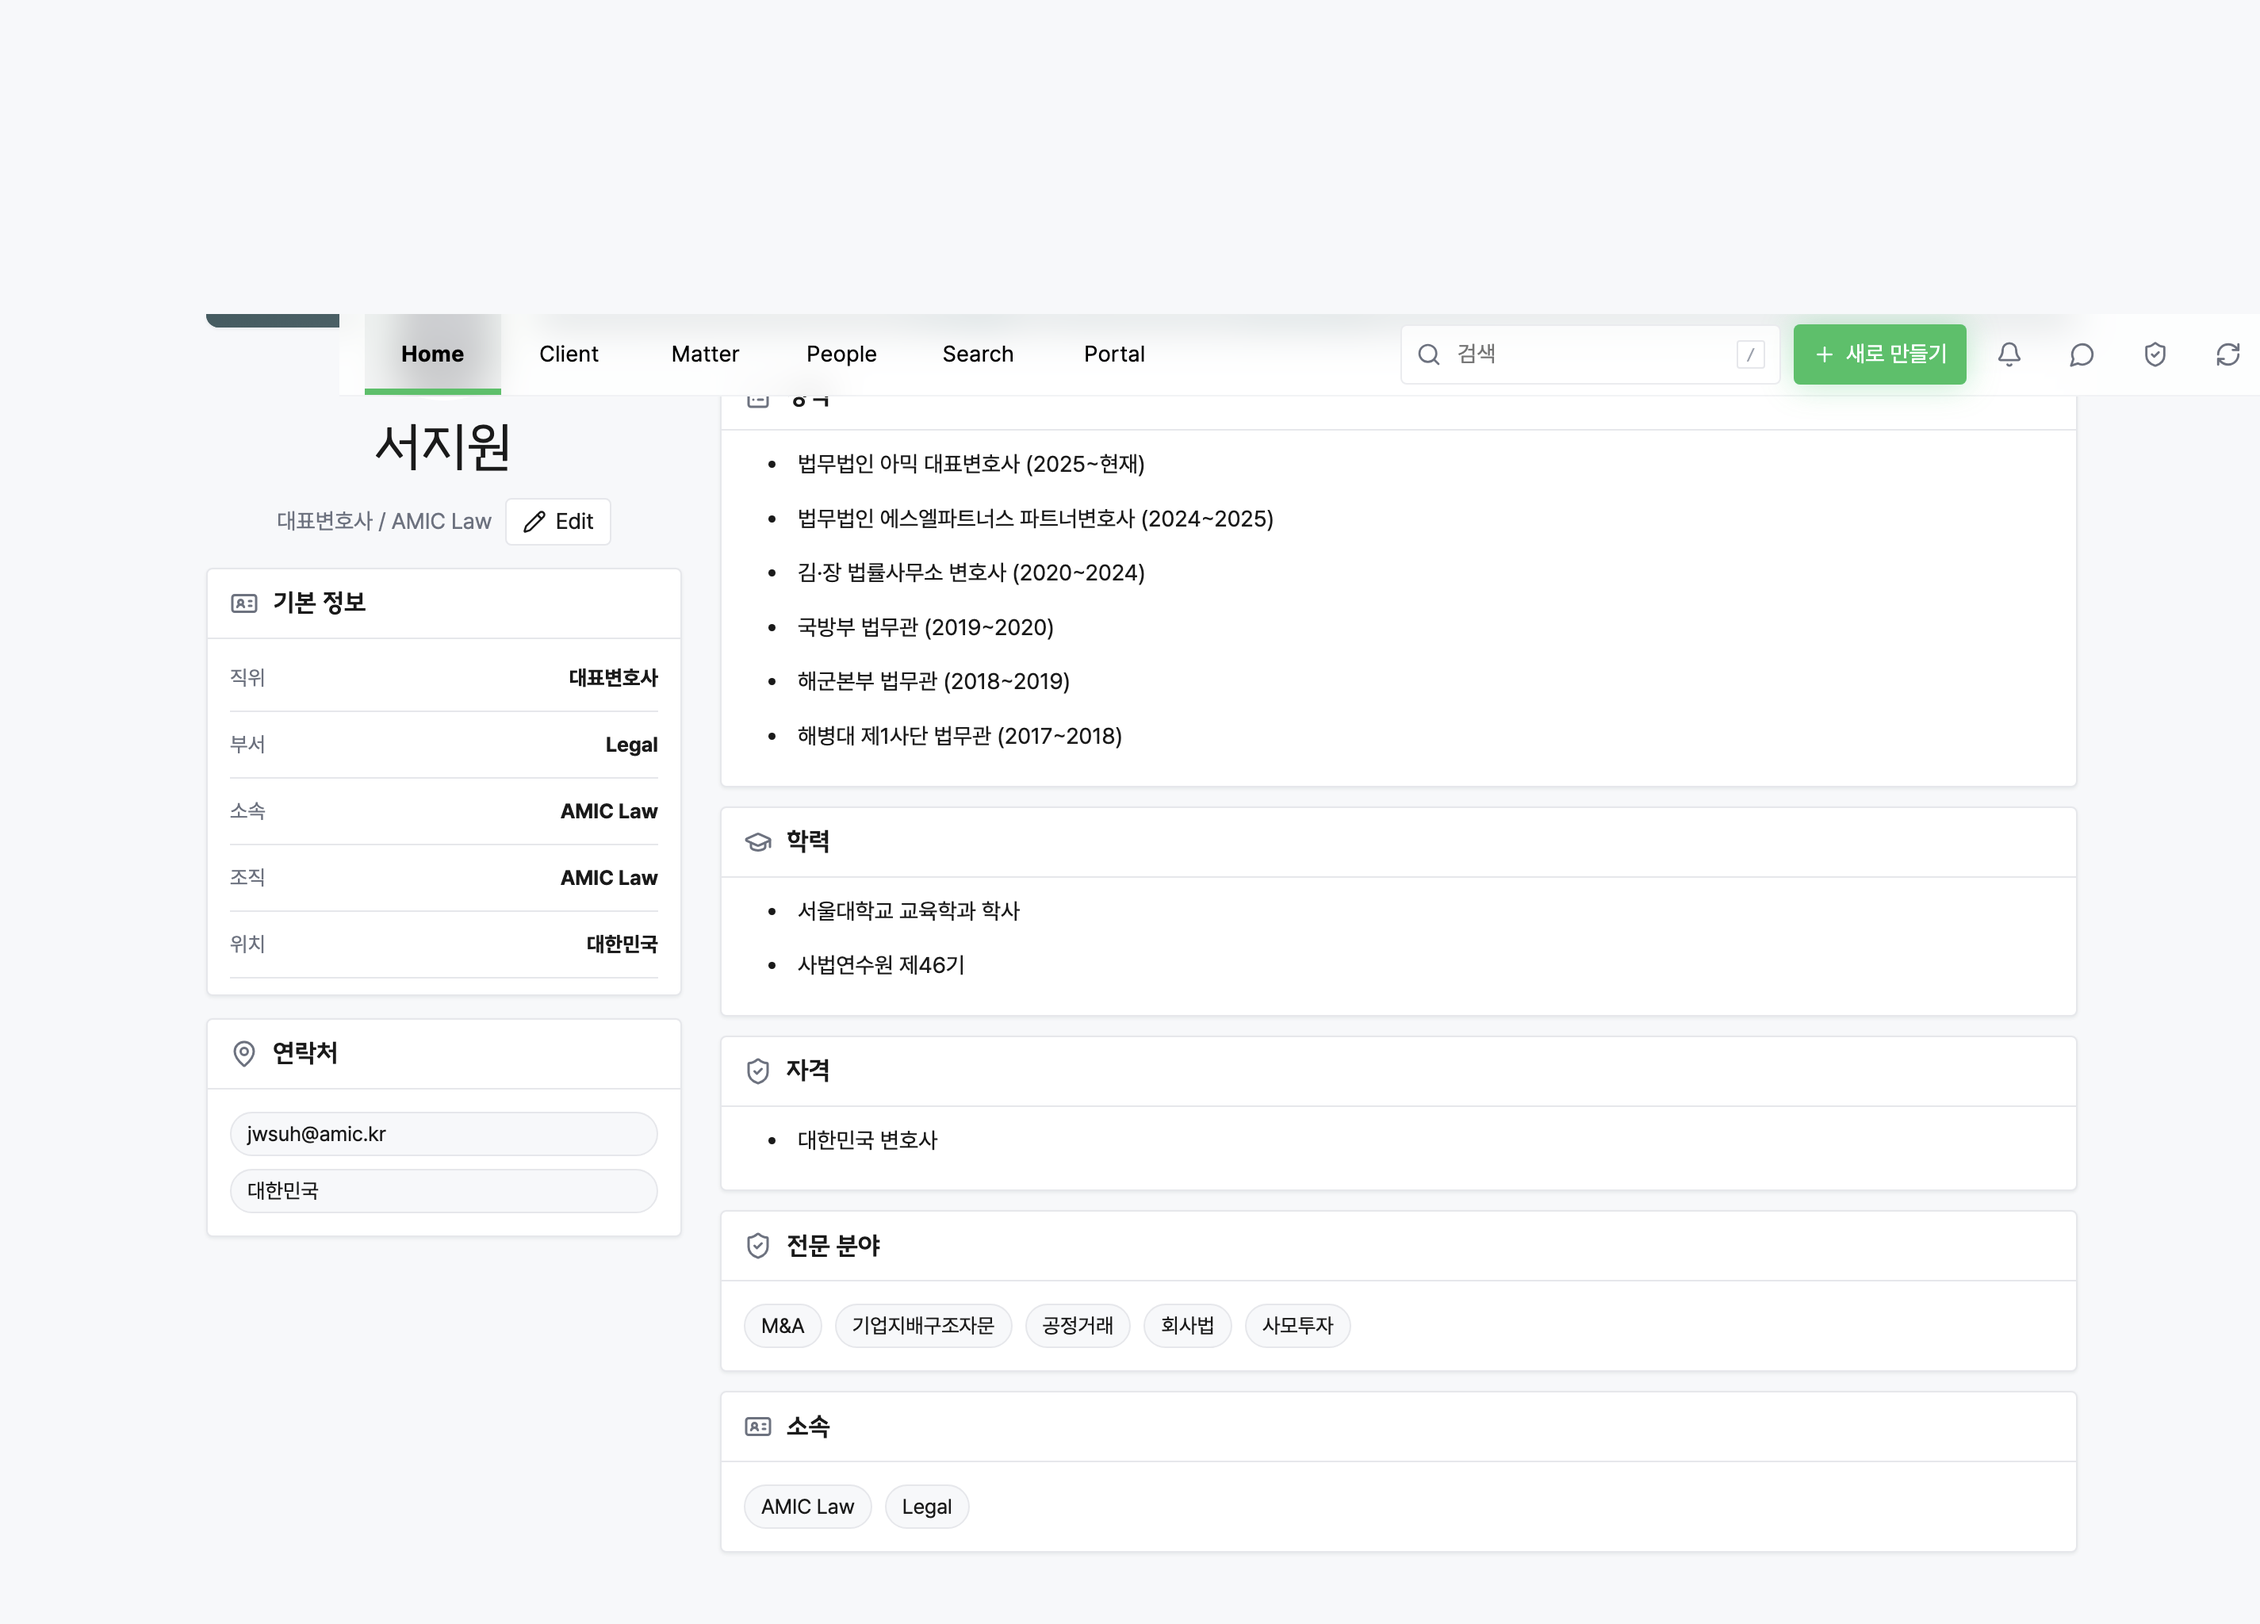
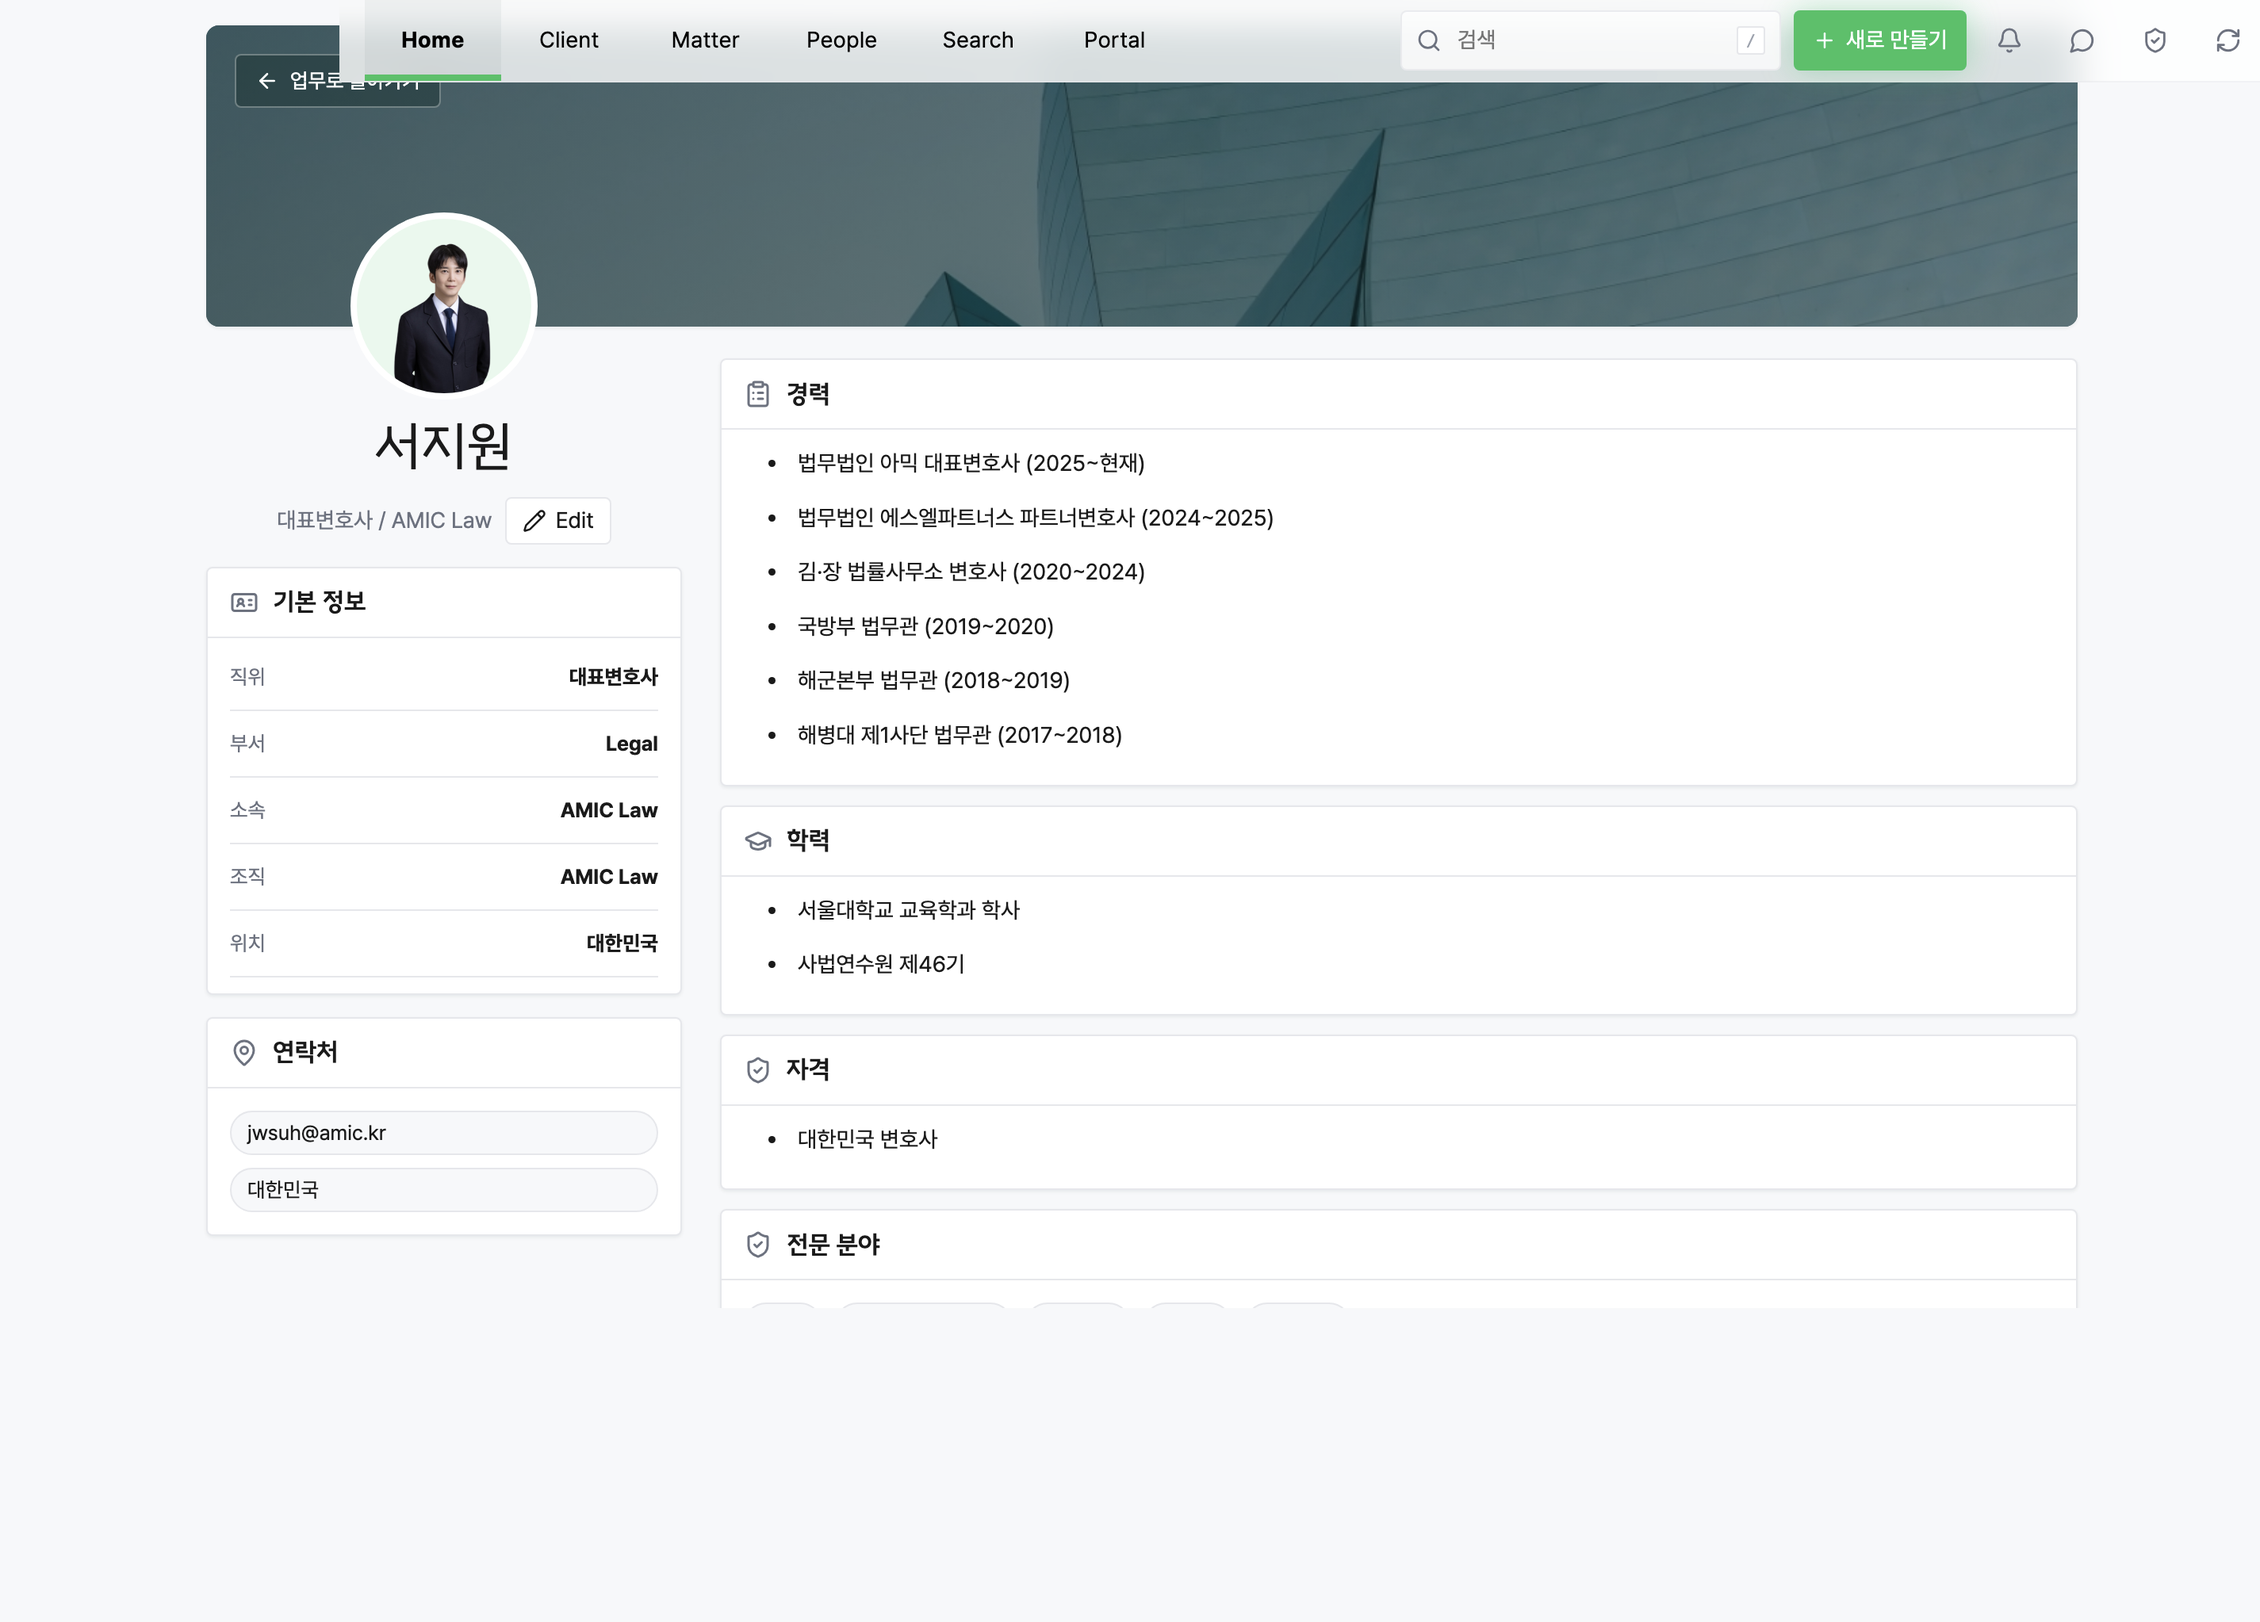
docs(hrx): record RC-005 UI and profile package proof

diff --git a/workbook/forest-v0.1.17-main-integration-release-goal-plan-2026-07-15.md b/workbook/forest-v0.1.17-main-integration-release-goal-plan-2026-07-15.md
@@ -170,10 +170,10 @@ FZ checkpoint
 | RC-005-A | DONE | HRX runtime·authz 합집합 | payroll item/profile/attendance 승인 route policy와 scope를 현재 6-role matrix에 추가하고, 신규 서비스를 `hrx-payroll-runtime`과 `payroll-runtime` route에 연결한다. 기존 leave/payroll route와 tenant/session/step-up 검증은 유지한다. | payroll 정책 404/미해결 2건과 신규 runtime 테스트 0/3을 기록 | 정책·6-role 최소 scope·canonical runtime·signed purpose/tenant/actor 검증 및 관련 회귀 102/102 PASS |
 | RC-005-B | DONE | 휴가 규칙 버전·원장 단일 소유 | logical lineage/version/as-of, 월·연·근속 120개월 table, immutable update, deactivate, 029 logical-version unique index를 Forest entitlement 원장에 연결했다. | `updateRule` 부재로 신규 계약 실패를 기록 | preview 전 write 0, idempotency 중복 0, 규칙 version/deactivate/as-of/receipt와 fresh·upgrade·recovery migration PASS |
 | RC-005-C | DONE | CSV/XLSX 휴가 발생 파일 | 동일 versioned contract를 CSV/XLSX template·typed parser·occurrence upload batch에 연결하고 ZIP/크기/행/헤더/수식 경계를 fail-closed로 구현했다. | XLSX parser export 부재와 신규 XLSX 계약 실패를 기록 | malformed/archive/formula/5,000행 초과 차단, preview partial write 0, CSV/XLSX 동일 batch contract 및 관련 회귀 PASS |
-| RC-005-D | IN_PROGRESS | Forest 휴가 compact action UI | 승인 대기·퇴사 정산 화면을 실제 Forest 44px 단일 행·단일 action 기준으로 검증하고 필요한 경우에만 최소 수정한다. | rendered selector/height/copy regression의 현재 결과 기록 | 휴가·비용처리 분류, 이중 승인 문구, 무의미한 empty copy, 2줄 metadata 0; 관련 dead action 0 |
-| RC-005-E | READY | 서지원 프로필·사진·패키지 경계 | `jwsuh@amic.kr -> 서지원` 연결, 비이미지 data URL 거부, public renderer roster PII 금지와 macOS renderer 포함 경계를 검증한다. | 잘못된 actor fallback·invalid image·PII fixture negative test | `세션 사용자` fallback 0, 이름·부서·직위·연락처 정합, invalid image 0, bundle roster PII 0 |
+| RC-005-D | DONE | Forest 휴가 compact action UI | 규칙 버전·중지, CSV/XLSX 발생, 승인 대기·팀 목록·사용 내역을 현재 Forest 44px 단일 행·단일 action 기준으로 정리하고 Web·브라우저·패키지에서 검증했다. | 새 version/deactivate·CSV/XLSX·empty-copy 부재 assertion의 구현 전 실패와 stale QA 계약 실패를 기록 | 상위 분류 반복, 이중 승인 문구, 무의미한 empty copy, 검증용 대사 문구 0; 관련 dead action 0; packaged leave 10/10 PASS |
+| RC-005-E | DONE | 서지원 프로필·사진·패키지 경계 | `jwsuh@amic.kr -> 서지원` 결합, 이미지 magic-byte 검사, public renderer roster PII 차단, 동일 SHA Mac·Windows renderer를 검증했다. | fake PNG·SVG·generic fallback·PII fixture negative test와 stale package hash 차단을 기록 | `세션 사용자` fallback 0, 이름·부서·직위·연락처 정합, invalid image 0, public renderer PII 0, packaged profile PASS |
 | RC-005-F | DONE | 급여 catalog·assignment·approved time 상위 호환 | item CRUD, masked profile assignment, attendance approval receipt를 canonical payroll input snapshot에 연결했고 별도 payroll time snapshot 계보는 도입하지 않았다. | 신규 runtime 테스트 0/3 실패를 기록 | tenant isolation, optimistic version, append-only assignment, raw amount 노출 0, 승인 receipt 기반 근태, 기존 run/payment/filing/year-end 회귀 0 |
-| RC-005-G | READY | 전체 증거·회귀·원본 보존 | 31개 PORT_REQUIRED source를 6개 그룹의 실제 Forest anchor/test로 crosswalk하고 전체 HRX/API/Web/Desktop/PII/AI-slop 검사를 실행한다. | A~F 전 entry SHA와 failing test receipt 수집 | port 31/31 설명, 미구현 0, HRX/API/Web/Desktop 0 fail, root fingerprint 동일, RC-005 evidence와 exit SHA 기록 |
+| RC-005-G | IN_PROGRESS | 전체 증거·회귀·원본 보존 | 31개 PORT_REQUIRED source를 6개 그룹의 실제 Forest anchor/test로 crosswalk하고 전체 HRX/API/Web/Desktop/PII/AI-slop 검사를 실행한다. | A~F 전 entry SHA와 failing test receipt 수집 | port 31/31 설명, 미구현 0, HRX/API/Web/Desktop 0 fail, root fingerprint 동일, RC-005 evidence와 exit SHA 기록 |
 
 RC-005의 공통 중단 조건:
 
@@ -503,6 +503,8 @@ external_blockers
 | 2026-07-15 | MG-004 | DONE | `8d01be6f` | `229429fd` | `workbook/forest-v0.1.17-integration-evidence/MG-004/` | 실제 빈 SQLite 001~028 28/28; schema `73/53/12`; required/forbidden 7/7; 제약 7/7; seed 0·integrity ok·FK error 0; HRX 564/564·web build PASS |
 | 2026-07-15 | MG-005 | DONE | `f59b3289` | `9722f647` | `workbook/forest-v0.1.17-integration-evidence/MG-005/` | 실제 파일 SQLite 010·020·025 -> 028; synthetic golden 32 table·32 row 변경·손실·예상 밖 생성 0; backfill 30/30; final schema fresh DB 일치 3/3; durable reopen 3/3; integrity·FK error 0; HRX 565/565·web build PASS |
 | 2026-07-15 | MG-006 | DONE | `a79cb5f2` | `75a3851e` | `workbook/forest-v0.1.17-integration-evidence/MG-006/` | canonical 최초 28/28·재실행 0/28; injected failure partial receipt 0; snapshot backup restore exact; SQLite 025 file restore·026~028 재적용 exact; failed transaction schema/row 잔존 0; integrity ok·FK error 0; HRX 566/566·web build PASS |
+| 2026-07-15 | RC-005-A/B/C/F | DONE | `931ae4c4` | `ee03b8c1` | `workbook/forest-v0.1.17-integration-evidence/RC-005/backend-acceptance.md` | runtime·authz·leave rule/XLSX·payroll catalog 102/102, migration 8/8, web typecheck PASS |
+| 2026-07-15 | RC-005-D/E | DONE | `ee03b8c1` | `75f10995` | `workbook/forest-v0.1.17-integration-evidence/RC-005/ui-profile-acceptance.md` | Web·LV03/04/05·Mac package·profile·public renderer PII PASS; Mac/Windows renderer 동일; formal/native 경계 분리 |
 
 ## 14. Goal Objective 원문
 

diff --git a/workbook/forest-v0.1.17-integration-evidence/RC-005/ui-profile-acceptance.md b/workbook/forest-v0.1.17-integration-evidence/RC-005/ui-profile-acceptance.md
@@ -1,0 +1,61 @@
+# RC-005-D/E UI and profile acceptance
+
+- TUW: `RC-005-D`, `RC-005-E`
+- status: `DONE`
+- entry_sha: `ee03b8c127f1be4d7a8ce4bb5b104f0ba27f110f`
+- exit_sha: `75f10995d9e04c35e8d21710fc64d6bd5e9b5e4c`
+- execution_worktree: `/private/tmp/lawos-forest-v016-release`
+- preserved_root_checkout: `/Users/jws/Documents/Codex/Law Firm OS`
[1 lines of base64/hex data omitted]
+- changed_files: `ui-profile-files.txt`
+- commands: `ui-profile-commands.txt`
+- test_result: `ui-profile-tests.txt`
+
+## Accepted behavior
+
+- 휴가 자동 발생 규칙은 불변 버전으로 새 버전을 만들고 활성 규칙만 실행 대상으로 사용한다.
+- 규칙 중지, 미리보기, 서명된 step-up 실행, 멱등 재실행, 수동 이중 통제 조정이 실제 화면에서 동작한다.
+- 발생 내역 CSV/XLSX template, upload, export가 같은 versioned contract를 사용하며 사유·첨부 원문을 내보내지 않는다.
+- 승인 대기와 팀 휴가 목록은 상위 분류와 무의미한 empty helper copy를 반복하지 않는다.
+- `잔액 대조`, `불일치`, `기준 없음`, `이중 승인` 같은 내부 검증 문구를 제품 UI에서 제거했다.
+- 프로필 사진 data URL은 허용 MIME뿐 아니라 PNG/JPEG/WebP 실제 magic bytes까지 검증한다.
+- 패키지 세션 `user_amic_jwsuh`는 HRX 직원 `emp_amic_jwsuh`와 결합되고, 렌더링 이름은 `서지원`으로 유지된다.
+- 공개 renderer scan은 보호 대상 roster 값과 사진을 출력하지 않는다.
[1 lines of base64/hex data omitted]
+
+## Failure-first evidence
+
+- 새 규칙 버전·중지, CSV/XLSX, empty-copy 제거, 비이미지 data URL 거부 assertion은 구현 전 실패했다.
+- 최초 packaged profile smoke는 현재 Forest sidebar와 맞지 않는 `사건 목록` 텍스트 selector에서 실패했고, stable data selector로 교체한 뒤 PASS했다.
+- 최초 packaged leave QA는 삭제된 empty-copy를 기다리는 낡은 assertion에서 실패했고, 부재 assertion으로 교체한 뒤 제품 흐름을 통과했다.
+- 다음 packaged leave QA는 오래된 Windows bundle의 renderer hash 불일치를 차단했다. 같은 SHA에서 Windows를 재빌드한 뒤 Mac·Windows hash가 일치하고 최종 QA가 PASS했다.
+
+## Manual QA
+
+- Lazyweb report `2c6e81b4-0875-4423-bc23-c7465b6e5b68`은 현재 Forest 44px 표 밀도와 반복 metadata 제거 방향을 지지하는 보조 증거로만 사용했다.
+- `lv-04-rule-version-deactivated-1512x900.png`에서 원본 `v1`, 새 버전 `v2`, 중지 상태, 단일 행 규칙 표를 확인했다.
+- `profile-api-packaged.png`에서 서지원 사진·이름·대표변호사·Legal·AMIC Law·연락처와 `세션 사용자` fallback 부재를 확인했다.
+- packaged leave QA는 720, 820, 1024, 1280, 1512 viewport에서 11개 화면을 캡처했고 문서 overflow, page error, console error가 0이었다.
+
+## Evidence hashes
+
[11 lines of base64/hex data omitted]
+
+## Known limits and claim boundary
+
+- 이 증거는 로컬 internal package 기능과 Mac·Windows renderer 동등성을 증명한다.
+- internal package runtime은 격리된 로컬 프로필 QA를 위해 private roster/photo를 포함한다. 공개 renderer에는 포함되지 않았지만 formal package 전체의 PII 0을 주장하지 않는다.
+- macOS internal package는 Developer ID 서명·공증·staple·Gatekeeper 배포 준비 상태가 아니다.
+- Windows package는 macOS에서 생성한 unsigned x64 후보다. Windows 네이티브 설치·로그인·휴가·급여·재시작·제거·Authenticode는 별도 QA가 필요하다.
+- AWS production traffic, 공개 release, provider/bank/tax write, production go-live를 증명하지 않는다.
+

diff --git a/workbook/forest-v0.1.17-integration-evidence/RC-005/screenshots/manifest.md b/workbook/forest-v0.1.17-integration-evidence/RC-005/screenshots/manifest.md
@@ -1,0 +1,13 @@
+# RC-005-D/E screenshot manifest
+
+| Surface | Path | SHA-256 |
+|---|---|---|
[6 lines of base64/hex data omitted]
+
+Only paths and hashes are copied into the RC-005 workbook evidence. PII-bearing image bytes remain in their existing restricted evidence location and are not duplicated here.
+

diff --git a/docs/lazycodex/evidence/matter-desktop/artifacts/windows-build.md b/docs/lazycodex/evidence/matter-desktop/artifacts/windows-build.md
@@ -22,9 +22,9 @@ Channel: `internal`
 ## Manifest Hash
 
 - manifest hash algorithm: sha256
[5 lines of base64/hex data omitted]
 
 ## Install Smoke
 
